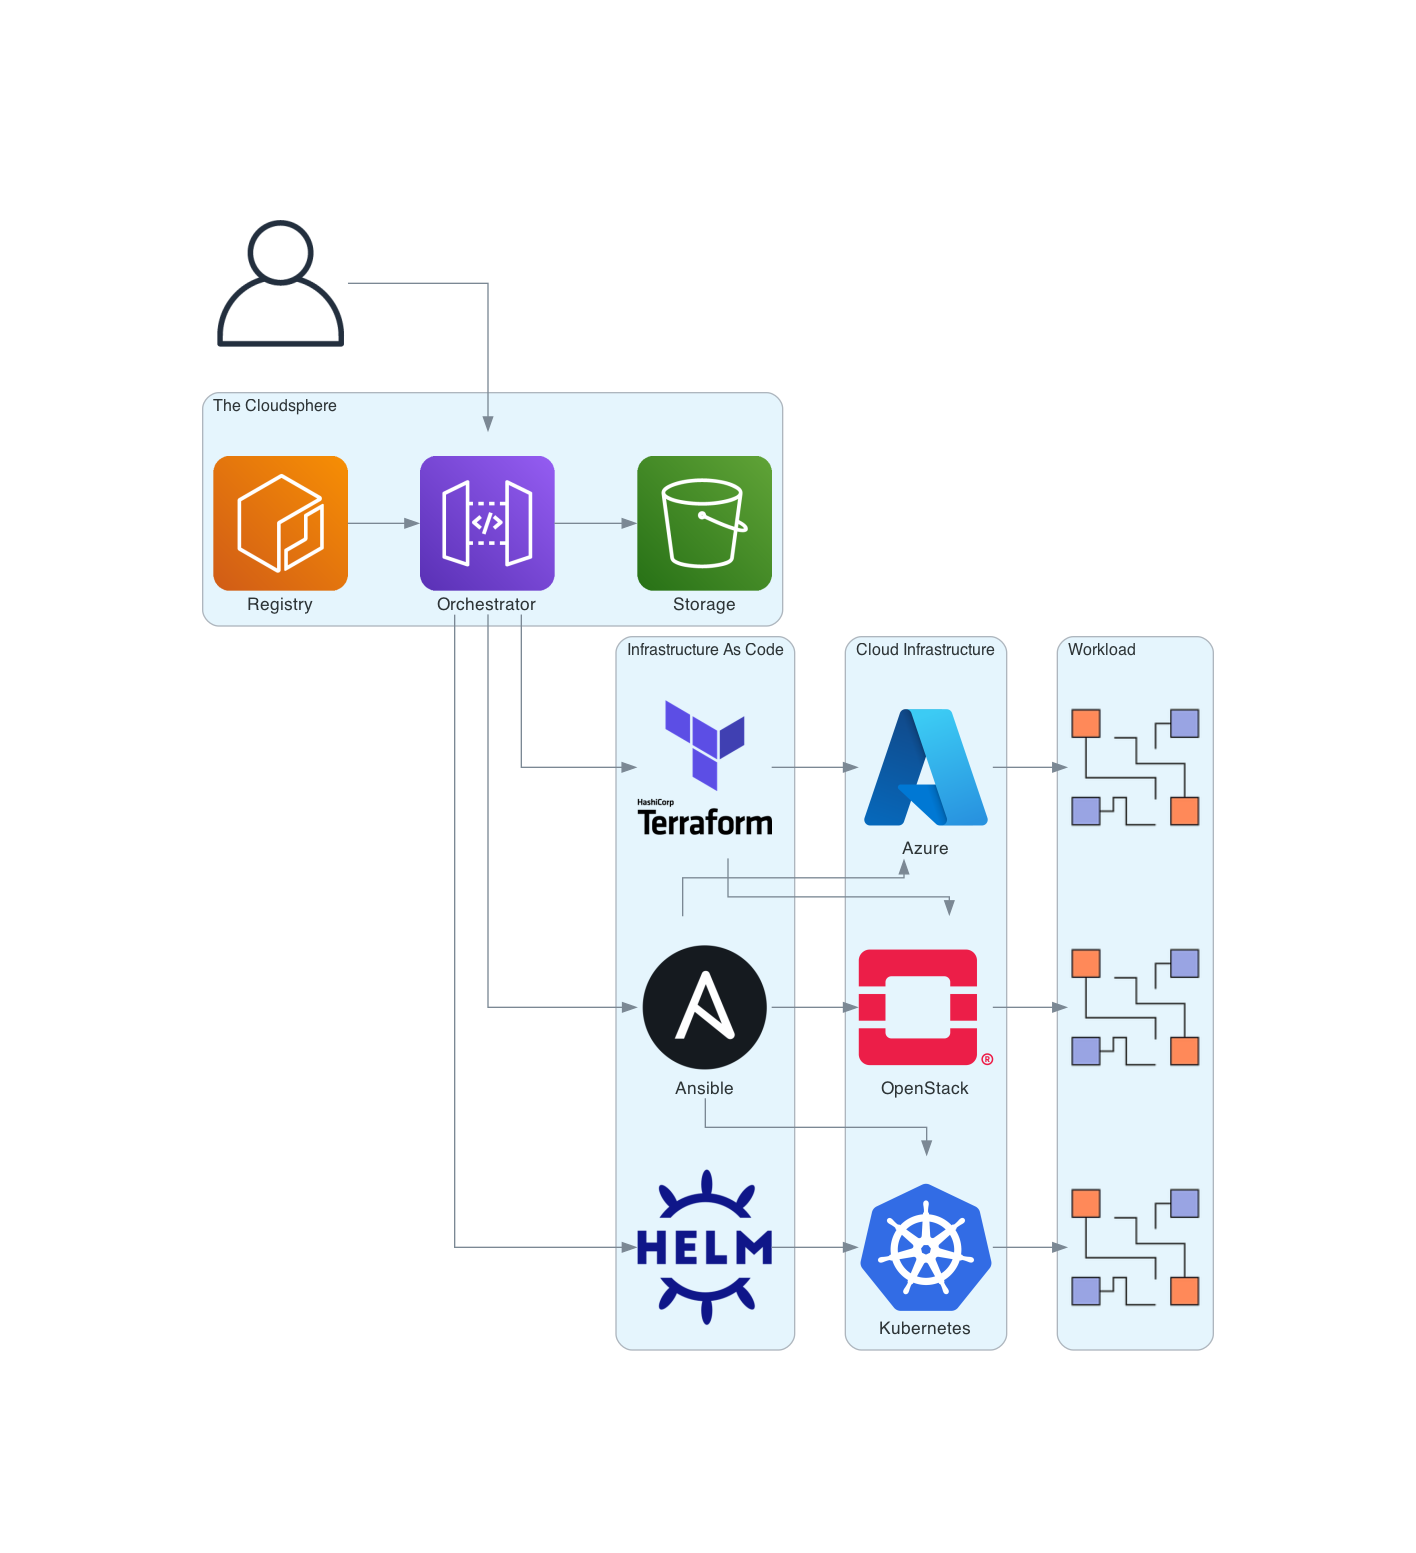
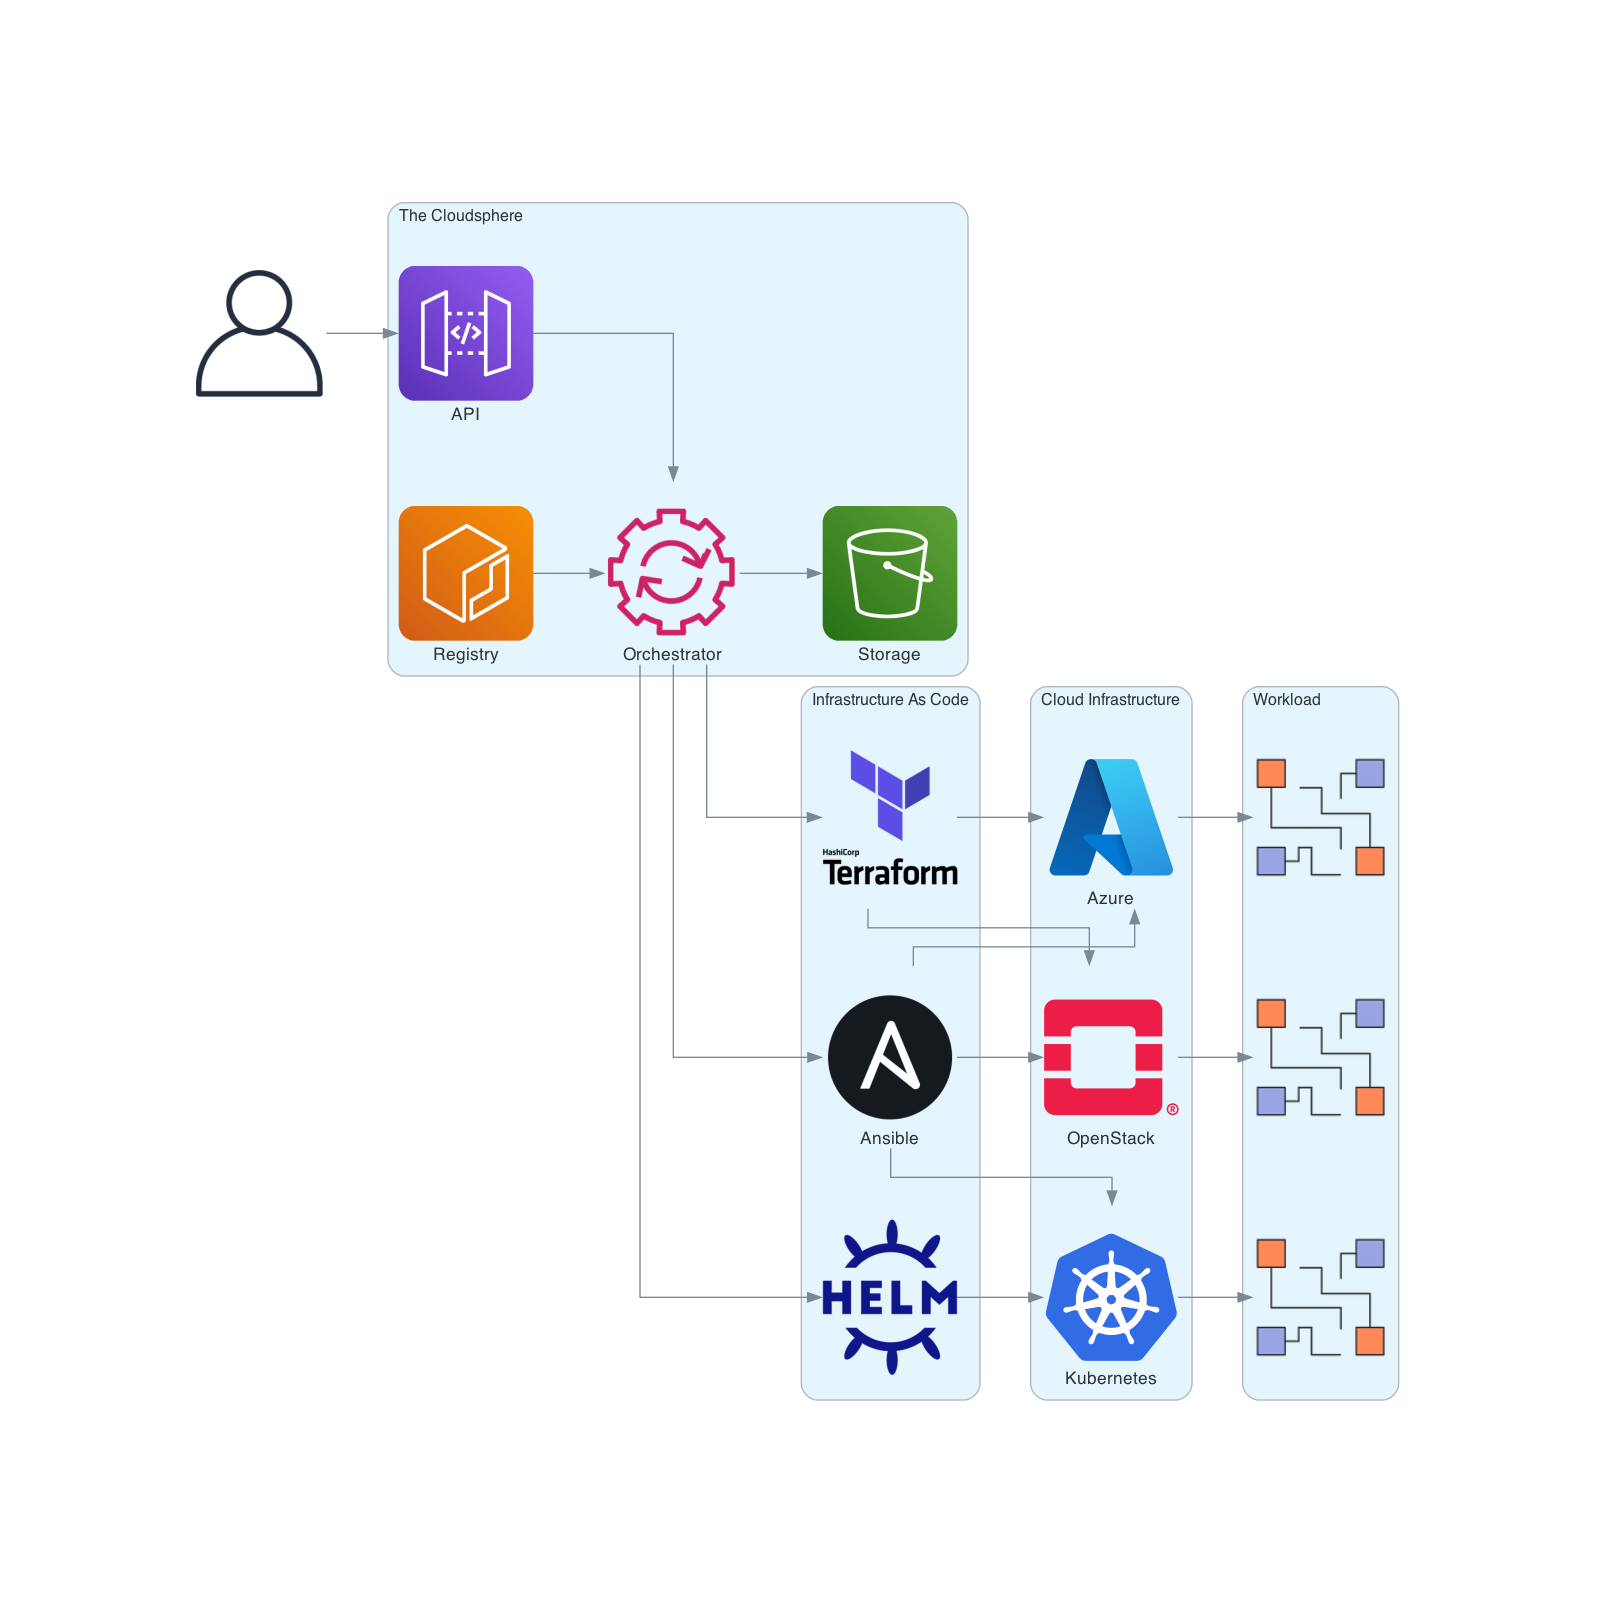
Add API service to overview

Changed region(s): [[0.1243, 0.1236, 0.9011, 0.8963]]

diff --git a/docs/overview.py b/docs/overview.py
@@ -1,6 +1,7 @@
 from diagrams import Cluster, Diagram
 from diagrams.aws.general import User
 from diagrams.aws.compute import ECR
+from diagrams.aws.management import SystemsManagerAutomation
 from diagrams.aws.network import APIGateway
 from diagrams.aws.storage import S3
 from diagrams.custom import Custom
@@ -16,8 +17,10 @@ with Diagram(filename="overview"):
         infrastructure_2 = Custom("", "logos/diagrams.png")
         infrastructure_3 = Custom("", "logos/diagrams.png")
 
+
     with Cluster("The Cloudsphere"):
-        timon = APIGateway("Orchestrator")
+        api = APIGateway("API")
+        orchestrator = SystemsManagerAutomation("Orchestrator")
         storage = S3("Storage")
         registry = ECR("Registry")
 
@@ -31,14 +34,16 @@ with Diagram(filename="overview"):
         k8s = Custom("Kubernetes", "logos/k8s.png")
         openstack = Custom("OpenStack", "logos/openstack.png")
 
-    user >> timon
+    user >> api
 
-    timon >> ansible
-    timon >> helm
-    timon >> terraform
-    timon >> storage
+    api >> orchestrator
 
-    registry >> timon
+    orchestrator >> ansible
+    orchestrator >> helm
+    orchestrator >> terraform
+    orchestrator >> storage
+
+    registry >> orchestrator
 
     ansible >> azure
     ansible >> k8s
